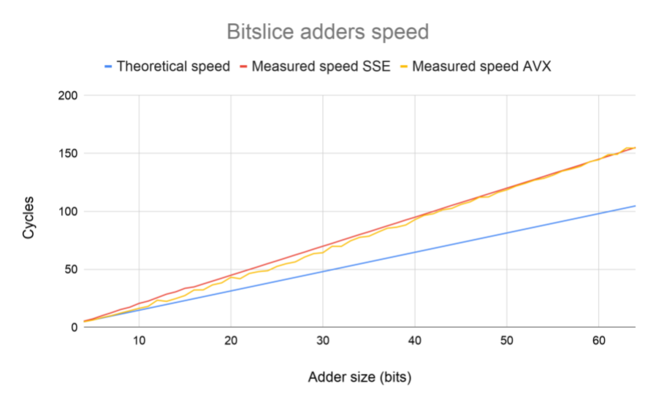
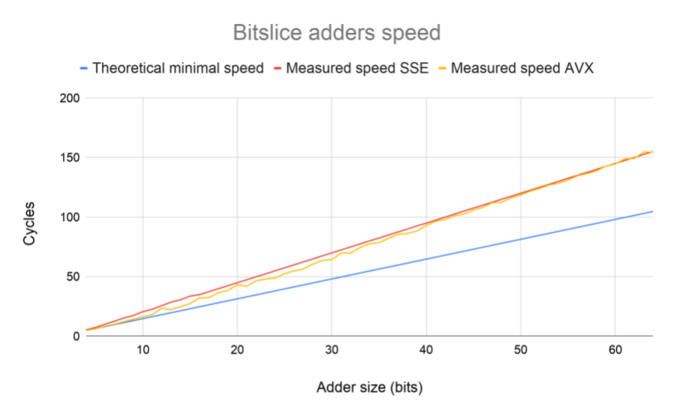
Update addition post

Changed region(s): [[0.122, 0.1481, 0.8841, 0.1778]]

diff --git a/_posts/2020-01-28-addition.md b/_posts/2020-01-28-addition.md
@@ -229,9 +229,10 @@ report the average of the 10 runs in the next section. The standard
 deviation being less than 5 percents, we omit it in order to reduce
 clutter.
 
-We compiled our C codes using Clang 7.0.0. We tried GCC 8.3.0 as well,
-but it generates sub-optimal codes, containing more instructions than
-necessary. Finally, we ran the benchmarks on a Intel Skylake i5-6500.
+We compiled our C codes using Clang 7.0.0. We tried using GCC 8.3.0,
+but it has a hard time with instruction scheduling and register
+allocations, especially within loops, and thus generates sub-optimal
+codes. Finally, we ran the benchmarks on a Intel Skylake i5-6500.
 
 
 ## Results
@@ -323,80 +324,89 @@ is a third of `native_single`'s: 0.08 for 32-bit, 0.04 for 16-bit and
 
 ### Bitslice addition (`bitslice`)
 
+
 Recall that the _n_-bit ripple-carry adder contains _n_
 full-adders. In practice, 3 operations can be omitted from the first
 full-adder, since it always receives a 0 as input carry. Likewise, 3
 more operations can be saved from the last full-adder, since its
-output carry is never used and doesn't need to be computed. The total
-numbers of operations of the _n_-bit adder is therefore _n*5-6_.
-Those operations are solely bitwise instructions, which can be
-executed on ports 0, 1 and 5 on SSE registers (and on port 6 as well
-on GP registers). This adder is therefore bound to run in at least
-_n*5/3_ cycles.
+output carry is never used and does not need to be computed. The total
+numbers of operations of this _n_-bit ripple-carry adder is therefore
+_n*5-6_. Those operations are solely bitwise instructions, which can
+be executed on ports 0, 1 and 5 on SSE registers (and on port 6 as
+well on GP registers). This adder is therefore bound to run in at
+least _(n*5-6)/3_ cycles.
 
-In isolation, a full adder contains inner dependencies, preventing it
-from executing in less than 3 cycles. However, in an _n_-bit adder,
-out-of-order execution enables multiple full adders to execute
-simultaneously, allowing a saturation of CPU ports 0, 1 and 5 despite
-the dependencies within each full adder.
+In practice, this number can never be reached because an adder
+contains inner dependencies that prevent it from executing at a rate
+of 3 instructions per cycle. However, when computing back to back
+adders, an adder can start executing before the previous adder is
+done, thus bypassing this dependencies issue. However, in practice,
+the limiting factor is the CPU scheduler which cannot hold
+arbitrarily many µops, and thus limits the out-of-order execution. The
+larger the adder, the more µops they contain, and the more the
+scheduler will be saturated.
 
+The following graph shows the minimal theoretical speed (_(n*5-6)/3_
+cycles) and the measured speed on SSE and AVX of ripple-carry adders
+depending whose size ranges from 4-bit to 64-bit:
 
 <p align="center">
 <img src="{{ site.baseurl }}/assets/images/blog/adders-chart-small.png">
 </p>
 
-The 8-bit SSE adder runs in 14.77 cycles, slightly slower than the
-13.3 theoretical minimum (_n_\*5/3 = 8*5/3 = 13.3). The 16 and 32-bit
-variants are even slower compared to their theoretical minimum, at
-33.28 (expected 26.5) and 74.55 (expected 53.3) cycles. The 8-bit GP
-adder is slighly slower than the SSE equivalent (16.28 cycles), while
-its 16-bit and 32-bit versions have similar performances as their SSE
-counterparts.
+Small adders (around 4-bit) almost reach their theoretical minimal
+speeds. However, the larger the adders, the slower they get compared
+to their theoretical minimum. This is partly because of their inner
+dependencies, as mentionned above, but also due to spilling. Indeed, a
+bitsliced _n_-bit adder has _n*2_ inputs, _n_ outputs, and _n*5_
+temporary variables. Even though most of the temporary variables are
+short lived, the register pressure remains high: there are only 16 SSE
+registers available and 15 GP registers (since one register is always
+kept for the stack pointer). Without surprises, the larger the adders,
+the more registers they need, and the more they suffer from spilling.
 
+Especially on small adders, AVX are faster than SSE, because the
+latter use destructive 2-operand instructions, while the former use
+non-destructive 3-operand instructions. SSE bitwise instructions take
+two registers, and override one of them with the result (_i.e._ they
+have the form `x ^= y` rather than `x = y ^ z`).  Some variables must
+therefore be saved (using a `mov`) before being overwritten with a new
+result. Even though `mov`es execute on ports 2, 3 and 4, whereas
+bitwise instructions use ports 0, 1 and 5, this introduces
+dependencies, and is enough to slightly slow down the SSE adders. AVX
+on the other hand use non-destructive 3-operand instructions.
 
-This slow down is explained by 2 factors:
-
- - Spilling: a bitsliced _n_-bit adder has _n*2_ inputs, _n_ outputs,
-   and _n*5_ temporary variables. Even though most of the temporary
-   variables are short lived, the register pressure remains high:
-   there are only 16 SSE registers available and 15 GP registers
-   (since one register is always kept for the stack pointer). The
-   8-bit SSE adder doesn't suffer from spilling, but all other adders
-   are affected.
- 
- - Desctructive 2-operand instructions. x86 bitwise instructions take
-   two registers, and override one of them with the result (_i.e._
-   they have the form `x ^= y` rather than `x = y ^ z`). Some
-   variables must therefore be saved (using a `mov`) before being
-   overwritten with a new result. Combined with spilling, this means
-   that about half the instructions of the bitslice adders are
-   moves. Even though they execute on different ports than bitswise
-   instructions (ports 2, 3, 4), this introduces dependencies, and is
-   enough to slightly slow down the bitslice adders. AVX introduced
-   non-destructive 3-operand instructions. Using those instead of the
-   SSE ones, the 8-bit adder executes at its optimal speed (it does
-   not contain spilling). The other adders remain affected from
-   spilling, but improve accross the board.
-   
-   
 Since the CPU can do 4 GP bitwise instructions per cycle, and only 3
 SSE (port 6 has only a general purpose ALU, not a vectorized one), the
 GP adders should be faster than the SSE ones. However, the SSE adders
 use 16 registers, while the GP ones use only 14 registers: one
 registers is reserved to store the stack pointer, and another one
 keeps the loop counter. This cause the GP adders to do more spilling
-than the SSE ones. Overall, this two phenomenon balances each other,
-which causes SSE and GP adders to have similar performances.
-
+than the SSE ones. Furthermore, the inner dependencies of the adders
+are the same regardless of the registers used. Since already the SSE
+adders struggle to fully saturate 3 ports, the GP adders have an even
+harder time to saturate 4 ports. Overall, this causes the SSE and GP
+adders to have similar performances.
 
 
 
 ## Conclusion
 
+On general purpose registers, using bitslicing can improve the speed
+of small additions: an 8-bit bitsliced adder is twice faster than
+native `add` instructions. However, when SIMD extensions are
+available, bitslicing becomes 2 to 6 times slower than native
+instructions. The choice of using bitslicing on codes using additions
+should therefore depend on both the size of the additions and the
+architecture.
 
-Using bitslicing to do an addition is 2 to 6 times slower than using
-native `add` instructions. We did not benchmark the multiplication,
-but since a multiplier requires at least _n*n_ instructions (whereas
-an adder only requires _n*5_), we can expect it to behave even more
-poorly compared to native instructions.
+Furthermore, the other parts of the ciphers should impact the
+decision: a code mixing addition and permutations might be a good
+target for bitslicing, while a code containing solely addition is
+unlikely to be a good candidate for bitslicing.
+
+On the other hand, it would be pointless to condiser bitslicing a
+multiplication: a multiplier requires at least _n²_ instructions
+(whereas an adder only requires _n*5_).
+
 
